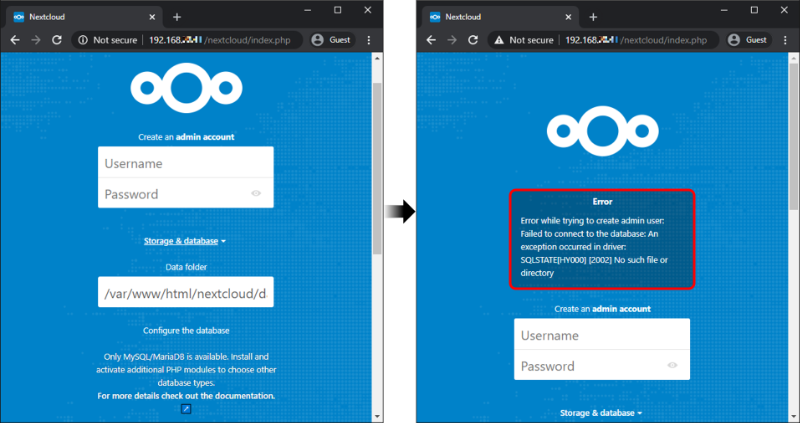
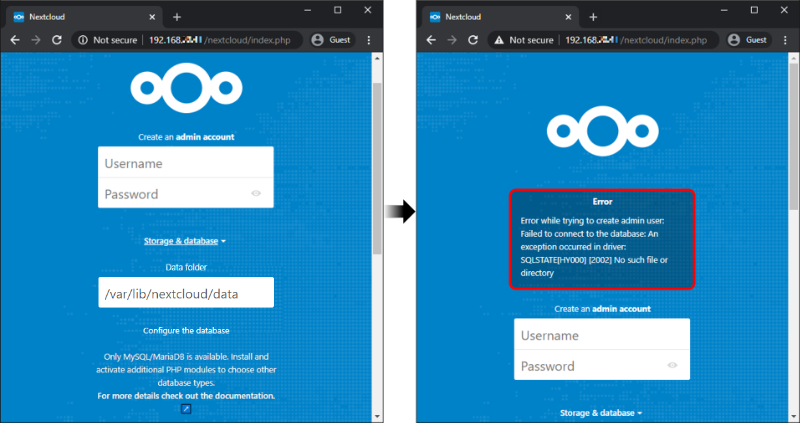
Clarified Nextcloud instructions.

Changed region(s): [[0.125, 0.6454, 0.3438, 0.7376], [0.1875, 0.7683, 0.2812, 0.7991], [0.2188, 0.6147, 0.25, 0.6454]]

diff --git a/README.md b/README.md
@@ -367,9 +367,10 @@ $ docker run -d -p 80:80 --name nextcloud_container nextcloud_image
 
 ### 6.4. Connect to Nextcloud server
 
-* You can now connect to the `nextcloud_container` by the Pi's IP address from your web browser
-   * Choose a username and password for the Nextcloud administrator account
-   * Data Folder: Leave as default "/var/www/html/nextcloud/data"
+* You can now connect to the `nextcloud_container` by the Pi's IP address from your web browser to setup Nextcloud
+   * Reminder: you have erased the previous Nextcloud installation from the previous tutorial to start over
+   * Choose a username and password for the Nextcloud administrator account (can be the same as the previous tutorial)
+   * Data Folder: Leave as default "/var/lib/nextcloud/data"
    * Database user: "ncuser"
    * Database password: "password"
    * Database name: "nextcloud"
